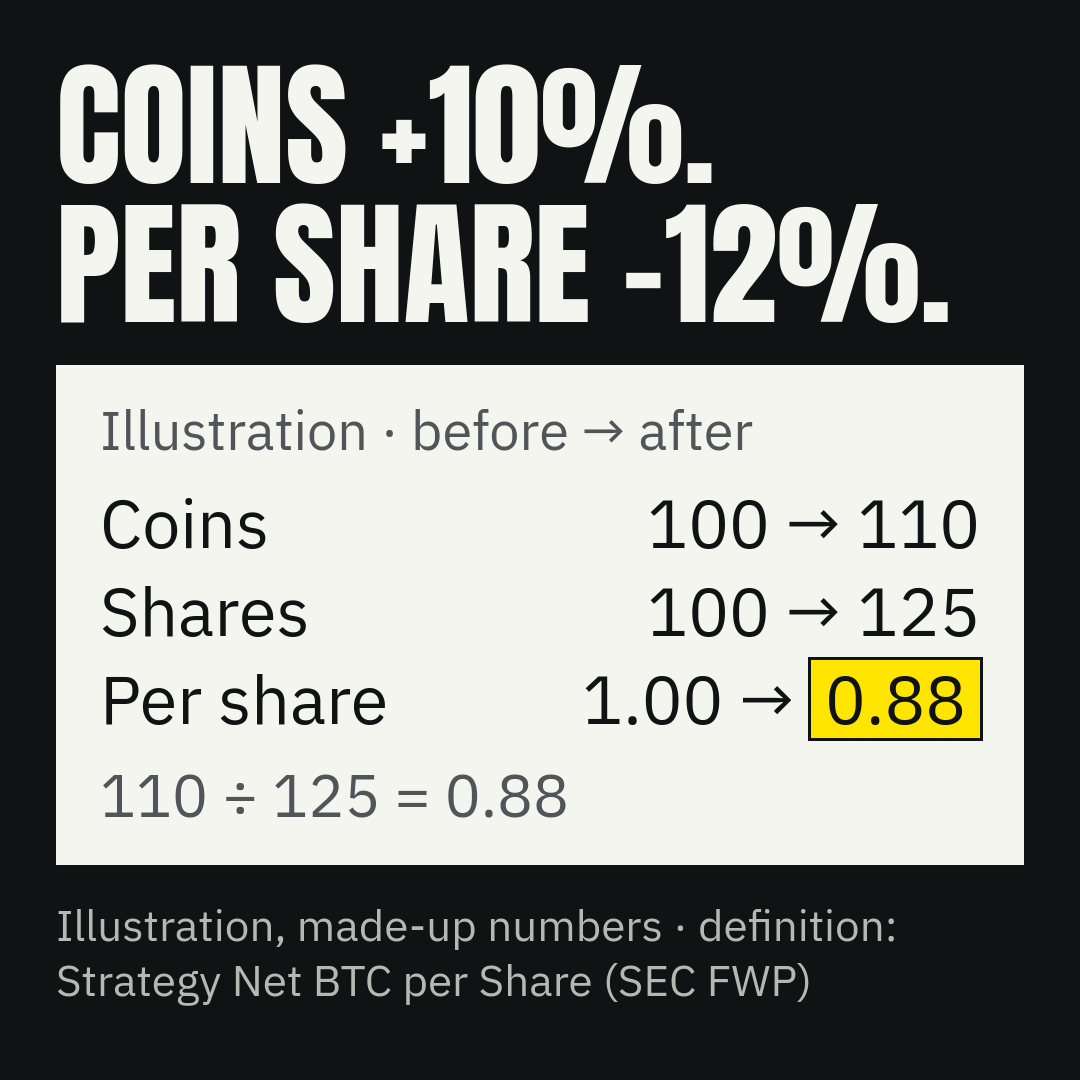
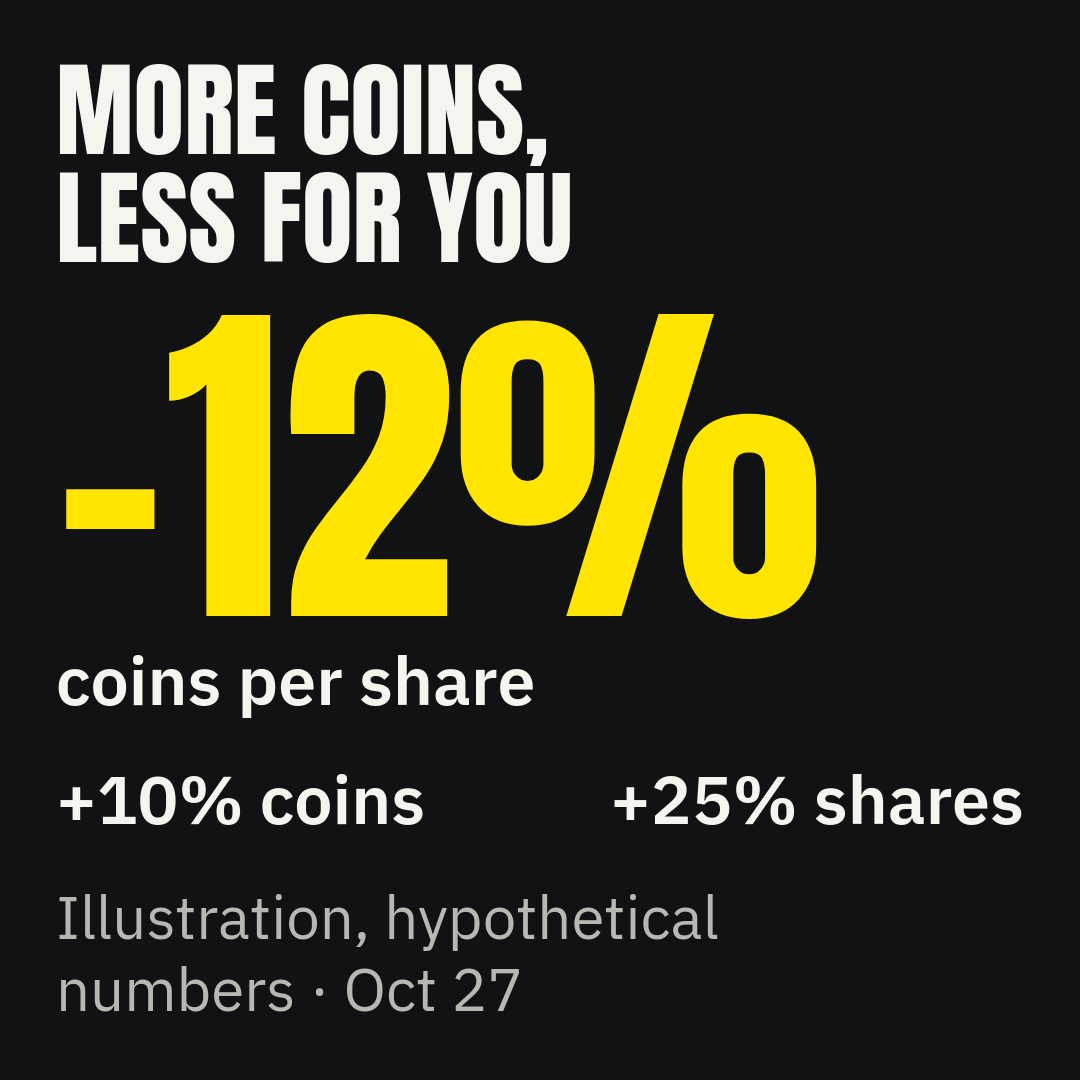
Sats per Share #16 v3: "More coins, less for you" card, new thread and alt text
Builds on PR #58. Card is a hero -12% (U+2212, Anton) labeled coins per share,
with +10% coins and +25% shares and a 60px footer. thread.txt becomes thread.md
with the supplied three-post text. alt.txt matches the card.

diff --git a/docs/social/sats-per-share-16/build_card.py b/docs/social/sats-per-share-16/build_card.py
@@ -4,48 +4,46 @@
     uv run --with playwright==1.63.0 python build_card.py RAHIL_DESIGN_DIR OUT_DIR
 
 RAHIL_DESIGN_DIR is the rahil-design skill folder (assets/tokens.json, assets/fonts/). Writes card.html and card.png.
-Illustration only: every number is made up (100 coins and 100 shares become 110 and 125).
+Illustration only: every number is made up (coins x1.10, shares x1.25, so coins per share x0.88).
 """
 import base64, html, json, sys
 from pathlib import Path
 
 MINUS = '\N{MINUS SIGN}'
-COINS, SHARES = (100, 110), (100, 125)
-PER = (COINS[0] / SHARES[0], COINS[1] / SHARES[1])
-CHANGE = lambda a, b: round((b / a - 1) * 100)
-assert (CHANGE(*COINS), CHANGE(*SHARES), CHANGE(*PER)) == (10, 25, -12) and f'{PER[1]:.2f}' == '0.88'
+COINS, SHARES = 1.10, 1.25
+CHANGE = lambda ratio: round((ratio - 1) * 100)
+assert (CHANGE(COINS), CHANGE(SHARES), CHANGE(COINS / SHARES)) == (10, 25, -12) and f'{COINS / SHARES:.2f}' == '0.88'
 
-TITLE_LINES = ('Coins +10%.', f'Per share {MINUS}12%.')
-CONTEXT = 'Illustration · before → after'
-ROWS = [('Coins', '100 → 110', None), ('Shares', '100 → 125', None), ('Per share', '1.00 → ', '0.88')]
-NOTE = '110 \u00f7 125 = 0.88'
-FOOT = 'Illustration, made-up numbers · definition: Strategy Net BTC per Share (SEC FWP)'
+TITLE_LINES = ('More coins,', 'less for you')
+HERO = f'{MINUS}12%'
+HERO_LABEL = 'coins per share'
+SUPPORT = ('+10% coins', '+25% shares')
+FOOT_LINES = ('Illustration, hypothetical', 'numbers · Oct 27')
 
 
 def build(design):
     tokens = json.loads((design / 'assets/tokens.json').read_text())
     c = {k: v['$value'] for k, v in tokens['color'].items()}
     font = lambda n: base64.b64encode((design / 'assets/fonts' / n).read_bytes()).decode()
-    rows = ''.join('<tr><th scope="row">%s</th><td>%s%s</td></tr>' % (
-        html.escape(label), html.escape(value),
-        f'<span class="focus">{html.escape(hi)}</span>' if hi else '') for label, value, hi in ROWS)
+    esc = html.escape
+    support = ''.join(f'<li>{esc(s)}</li>' for s in SUPPORT)
     return f"""<!doctype html><html lang="en"><head><meta charset="utf-8"><style>
 @font-face{{font-family:'Rahil Display';src:url(data:font/ttf;base64,{font('Anton-Regular.ttf')})}}
-@font-face{{font-family:'Rahil Plex';src:url(data:font/ttf;base64,{font('IBMPlexSans-Regular.ttf')})}}
+@font-face{{font-family:'Rahil Plex';font-weight:400;src:url(data:font/ttf;base64,{font('IBMPlexSans-Regular.ttf')})}}
+@font-face{{font-family:'Rahil Plex';font-weight:600;src:url(data:font/ttf;base64,{font('IBMPlexSans-SemiBold.ttf')})}}
 *{{box-sizing:border-box}}html,body{{margin:0}}
 body{{width:1080px;height:1080px;background:{c['canvas']};color:{c['ink']};font-family:'Rahil Plex';overflow:hidden}}
-article{{width:1080px;height:1080px;padding:56px;display:flex;flex-direction:column;gap:32px}}
-h1{{font:136px/1.02 'Rahil Display';margin:0;text-transform:uppercase}}
-.figure{{background:{c['figure-surface']};color:{c['figure-ink']};padding:32px 44px 34px;display:flex;flex-direction:column;gap:16px}}
-.context{{font-size:54px;line-height:1.2;margin:0;color:{c['figure-secondary']}}}
-table{{width:100%;border-collapse:collapse;font-size:68px;line-height:1.15;font-variant-numeric:tabular-nums}}
-th,td{{padding:5px 0;font-weight:400;vertical-align:middle}}th{{text-align:left}}td{{text-align:right;white-space:nowrap}}
-.focus{{display:inline-block;background:{c['accent']};color:{c['figure-ink']};outline:3px solid {c['figure-ink']};padding:0 14px}}
-.note{{font-size:60px;line-height:1.2;margin:0;color:{c['figure-secondary']}}}
-.foot{{font-size:44px;line-height:1.25;color:{c['secondary']};margin:0;text-wrap:balance}}
-</style></head><body><article><h1>{'<br>'.join(html.escape(t) for t in TITLE_LINES)}</h1>
-<section class="figure" aria-label="{html.escape(CONTEXT)}"><p class="context">{html.escape(CONTEXT)}</p><table>{rows}</table><p class="note">{html.escape(NOTE)}</p></section>
-<p class="foot">{html.escape(FOOT)}</p></article></body></html>"""
+article{{width:1080px;height:1080px;padding:56px;display:flex;flex-direction:column}}
+h1{{font:400 104px/1.04 'Rahil Display';margin:0;text-transform:uppercase}}
+.hero{{margin:auto 0 44px;display:flex;flex-direction:column;gap:0}}
+.num{{font:400 350px/1 'Rahil Display';color:{c['accent']};margin:0;letter-spacing:0}}
+.label{{font:600 68px/1.1 'Rahil Plex';margin:0}}
+ul{{list-style:none;margin:0 0 44px;padding:0;display:flex;justify-content:space-between;font:600 68px/1.1 'Rahil Plex'}}
+.foot{{font:400 60px/1.2 'Rahil Plex';color:{c['secondary']};margin:0}}
+</style></head><body><article><h1>{'<br>'.join(esc(t) for t in TITLE_LINES)}</h1>
+<section class="hero" aria-label="Illustration"><p class="num">{esc(HERO)}</p><p class="label">{esc(HERO_LABEL)}</p></section>
+<ul>{support}</ul>
+<p class="foot">{'<br>'.join(esc(t) for t in FOOT_LINES)}</p></article></body></html>"""
 
 
 def main(design, out):
@@ -59,9 +57,12 @@ def main(design, out):
         page.goto((out / 'card.html').resolve().as_uri())
         page.evaluate('document.fonts.ready')
         page.wait_for_timeout(300)
-        report = page.evaluate("""() => { const a = document.querySelector('article').getBoundingClientRect();
-          return {fonts: [...document.fonts].map(f => f.family + ':' + f.status), foot_bottom: document.querySelector('.foot').getBoundingClientRect().bottom,
-          h1_lines: Math.round(document.querySelector('h1').getBoundingClientRect().height / 139), h1_right: Math.max(...[...document.querySelector('h1').getClientRects()].map(r => r.right)),
+        report = page.evaluate("""() => { const r = s => document.querySelector(s).getBoundingClientRect();
+          const px = s => parseFloat(getComputedStyle(document.querySelector(s)).fontSize);
+          return {fonts: [...document.fonts].map(f => f.family + ':' + f.status),
+          h1: [r('h1').top, r('h1').bottom], hero: [r('.num').top, r('.num').bottom, r('.label').bottom],
+          support: [r('ul').top, r('ul').bottom], foot: [r('.foot').top, r('.foot').bottom, r('.foot').right],
+          foot_px: px('.foot'), label_px: px('.label'), num_px: px('.num'), hero_text: document.querySelector('.num').textContent.codePointAt(0).toString(16),
           overflow: [...document.querySelectorAll('article *')].filter(e => e.scrollWidth > e.clientWidth + 1).map(e => e.className || e.tagName)}; }""")
         print(json.dumps(report))
         page.screenshot(path=str(out / 'card.png'))

diff --git a/docs/social/sats-per-share-16/thread.md b/docs/social/sats-per-share-16/thread.md
@@ -1,0 +1,7 @@
+1/ A crypto treasury company can buy more coins and still leave you with less.
+
++10% coins. +25% shares. Your slice: −12%.
+
+2/ The math: 1.10 ÷ 1.25 = 0.88. Holdings headlines count coins. Shareholders own coins per share. Watch that number, not the total.
+
+3/ Illustration with made-up numbers, not a specific company. How we track real coins per share for Strategy and BitMine: https://github.com/RahilBhavan/dat-accretion/blob/main/docs/methodology.md
